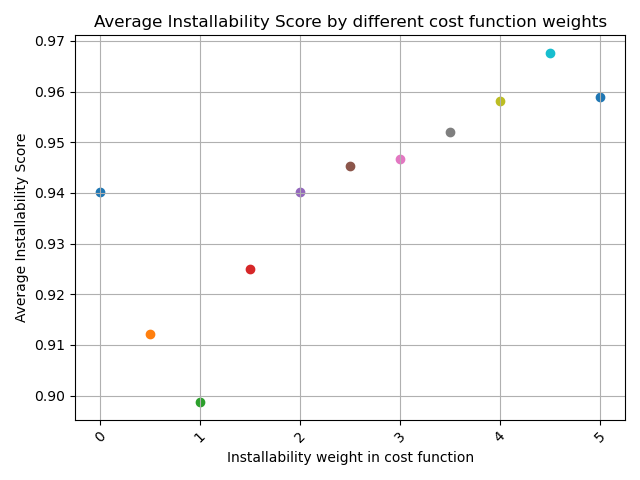
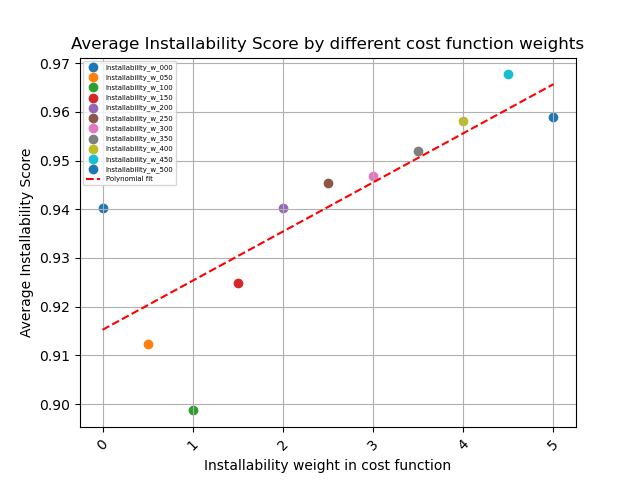
Installability validation plots now included.

diff --git a/Installability Validation/Installability_Validation.py b/Installability Validation/Installability_Validation.py
@@ -3,6 +3,7 @@ import pandas as pd
 import matplotlib.pyplot as plt
 import os
 
+from holoviews.plotting.bokeh.styles import font_size
 
 # Open and attain data from csvs:
 dfs_by_name = {}
@@ -19,6 +20,7 @@ for file in os.listdir(dir):
             df["Installability weight"] = df["Installability weight"]/100
         dfs_by_name[df_name] = df
         print(f"\n=== DATA SUMMARY for {df_name} ===")
+
 
 #%% Plotting
 
@@ -37,17 +39,18 @@ y_data = np.array(y_data)
 sort_idx = np.argsort(x_data)
 x_data = x_data[sort_idx]
 y_data = y_data[sort_idx]
-coefficients = np.polyfit(x_data, y_data, 4)
+coefficients = np.polyfit(x_data, y_data, 1)
 polynomial_II = np.poly1d(coefficients)
 x_smooth = np.linspace(x_data.min(), x_data.max(), 100)
 plt.plot(x_smooth, polynomial_II(x_smooth), 'r--',label='Polynomial fit')
 
 plt.xlabel("Installability weight in cost function")
 plt.ylabel("Average Installability Score")
+plt.legend(loc='upper left', fontsize=5)
 plt.title("Average Installability Score by different cost function weights")
 plt.xticks(rotation=45)
 plt.grid()
-plt.tight_layout()
+# plt.tight_layout()
 plt.show()
 
 
@@ -59,7 +62,7 @@ plt.figure()
 for df_name, df in dfs_by_name.items():
     stripped_TM_col = df["Time mult"].str.replace("×", "").astype(float)
     avg_TM = stripped_TM_col.mean()
-    plt.scatter(df["Installability weight"][0], avg_TM)
+    plt.scatter(df["Installability weight"][0], avg_TM, label='df_name')
     x_data.append(df["Installability weight"][0])
     y_data.append(avg_TM)
 
@@ -68,12 +71,13 @@ y_data = np.array(y_data)
 sort_idx = np.argsort(x_data)
 x_data = x_data[sort_idx]
 y_data = y_data[sort_idx]
-coefficients = np.polyfit(x_data, y_data, 4)
+coefficients = np.polyfit(x_data, y_data, 1)
 polynomial_TM = np.poly1d(coefficients)
 x_smooth = np.linspace(x_data.min(), x_data.max(), 100)
 plt.plot(x_smooth, polynomial_TM(x_smooth), 'r--',label='Polynomial fit')
 plt.xlabel("Installability weight in cost function")
 plt.ylabel("Average Time Multipliler Score")
+plt.legend(loc='upper right', fontsize=5)
 plt.title("Average Time Multiplier by different cost function weights")
 plt.xticks(rotation=45)
 plt.grid()
@@ -81,10 +85,18 @@ plt.tight_layout()
 plt.show()
 
 
+y_data = []
 plt.figure()
 for df_name, df in dfs_by_name.items():
     avg_length = df["Length (m)"].mean()
+    y_data.append(avg_length)
     plt.scatter(df["Installability weight"][0], avg_length)
+
+y_data = np.array(y_data)
+y_data = y_data[sort_idx]
+coefficients = np.polyfit(x_data, y_data, 1)
+polynomial_length = np.poly1d(coefficients)
+plt.plot(x_smooth, polynomial_length(x_smooth), 'r--',label='Polynomial fit')
 plt.xlabel("Installability weight in cost function")
 plt.ylabel("Average Length (m)")
 plt.title("Average Length by different cost function weights")
@@ -94,19 +106,25 @@ plt.tight_layout()
 plt.show()
 
 
-print("=== 2D plots have been created ===")
+# Visualise the lower priority pipe's decrease in installability
+all_dfs = pd.concat(dfs_by_name.values())
+priority_grouped = all_dfs.groupby(["Installability weight", "Priority"])["Install score"].mean().unstack()
 
-# testing if II and TM are inverses:
-
-plt.figure()
-plt.plot(x_smooth, polynomial_TM(x_smooth), 'r--',label='Polynomial TM')
-plt.plot(x_smooth, polynomial_II(x_smooth), 'b--',label='Polynomial II')
+# Plotting the grouped data as a line plot to ensure the x-axis is numerical
+priority_grouped.plot(kind='line', marker='o', figsize=(12, 7))
+plt.plot(x_smooth, polynomial_II(x_smooth),'r--', label='Installability index polynomial fit')
 plt.xlabel("Installability weight in cost function")
-plt.ylabel("Average Installability Score or TM")
-plt.grid()
-plt.legend()
+plt.ylabel("Average Installability Score")
+plt.title("Average Installability Score by Pipe Priority and Weight")
+plt.legend(title="Priority", bbox_to_anchor=(1.05, 1), loc='upper left')
+plt.grid(True, linestyle='--', alpha=0.7)
 plt.tight_layout()
 plt.show()
+
+
+print("=== 2D plots have been created ===")
+
+
 
 # --- 3D Visualization ---
 fig = plt.figure(figsize=(12, 8))
@@ -144,24 +162,27 @@ plt.show()
 print("=== 3D plots have been created ===")
 
 
-#%% II and TM correlation analysis
-# extract data for Pearson correlation analysis
-II_values = pd.DataFrame()
-TM_values = pd.DataFrame()
-for df_name, df in dfs_by_name.items():
-    II_values[df_name] = df["Install score"]
-    TM_values[df_name] = df["Time mult"].str.replace("×", "").astype(float)
 
-corr = []
-for col in II_values.columns:
-    correlation = II_values[col].corr(TM_values[col])
-    corr.append(correlation)
-    print(f"Pearson correlation between Installability Score and Time Multiplier for {col}: {correlation**2:.5f}")
+
+#%% II and TM correlation analysis
+
+correlations = {}
+for df_name, df in dfs_by_name.items():
+    weight = df["Installability weight"].iloc[0]
+    II_vals = df["Install score"]
+    TM_vals = df["Time mult"].str.replace("×", "").astype(float)
+    correlation = II_vals.corr(TM_vals)
+    correlations[weight] = correlation**2
+    print(f"Pearson correlation squared for weight {weight}: {correlation**2:.5f}")
+
+# Sort correlations by weight for plotting
+sorted_weights = sorted(correlations.keys())
+sorted_corr = [correlations[w] for w in sorted_weights]
 
 plt.figure()
-plt.plot(x_data, np.array(corr)**2, label='Pearson correlation')
+plt.plot(sorted_weights, sorted_corr, marker='o', label='Pearson correlation squared')
 plt.grid(True)
 plt.xlabel("Installability weight in cost function")
-plt.ylabel("Pearson correlation")
-plt.title("Pearson correlation Installability index vs. Time Multiplier")
+plt.ylabel("Pearson correlation (R^2)")
+plt.title("R^2 Correlation: Installability index vs. Time Multiplier")
 plt.show()
